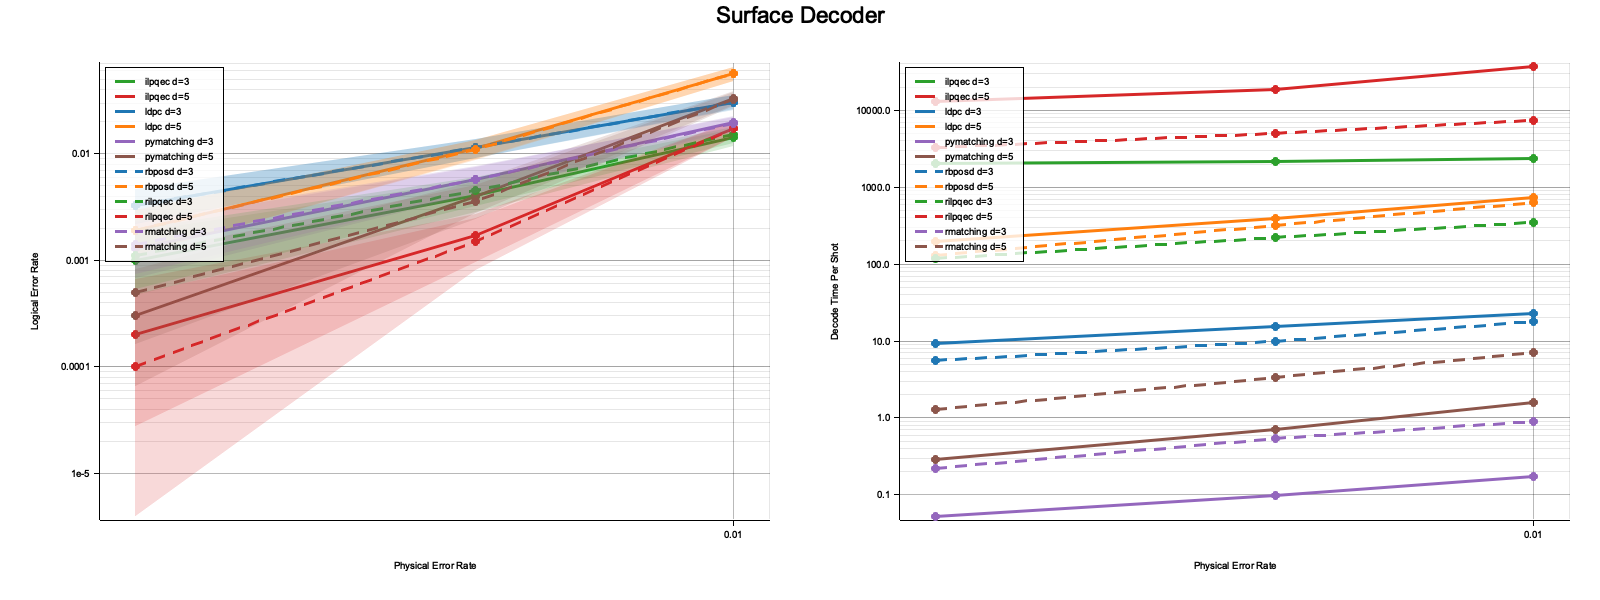
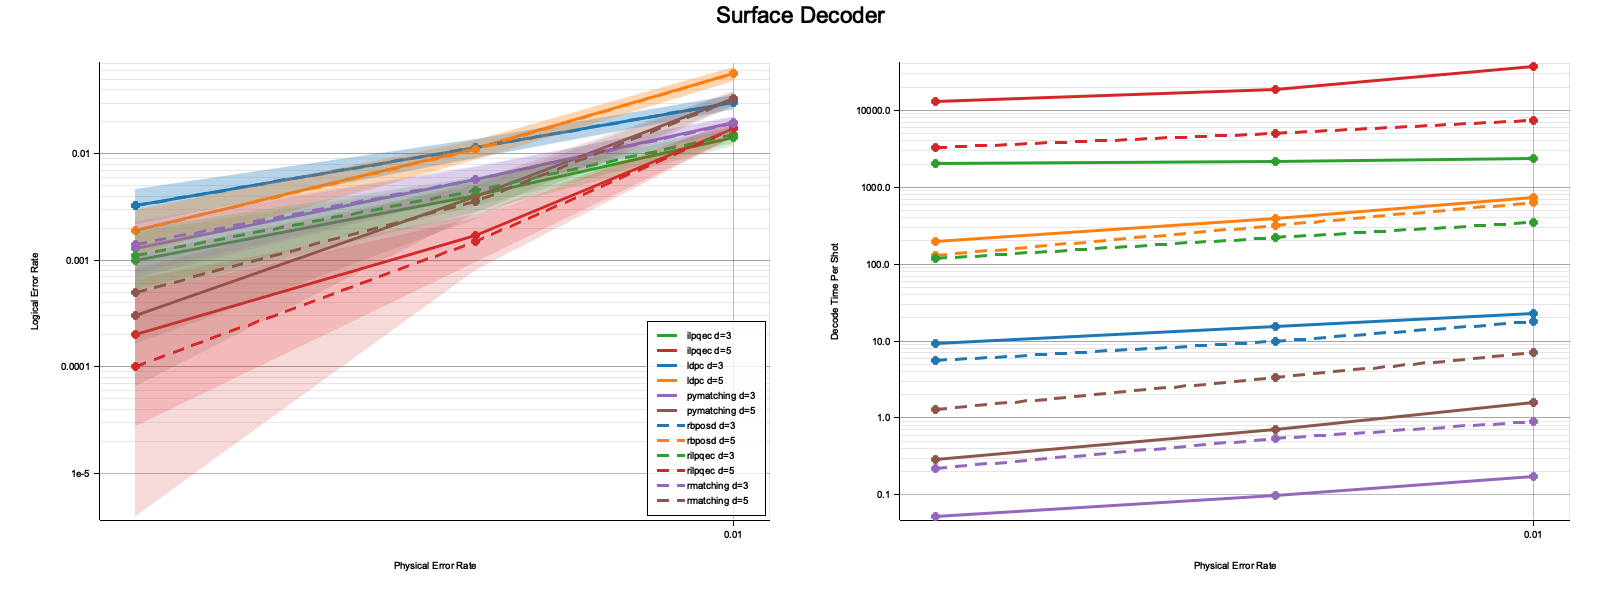
fix: place surface plot legend once

Changed region(s): [[0.0625, 0.12, 0.1562, 0.45], [0.5625, 0.12, 0.6562, 0.45], [0.4062, 0.54, 0.4688, 0.84]]

diff --git a/rsinter/src/bench/plot.rs b/rsinter/src/bench/plot.rs
@@ -470,12 +470,15 @@ where
     };
     let areas = content.split_evenly((1, panels.len()));
 
-    for (area, panel) in areas.into_iter().zip(panels.iter()) {
+    for (index, (area, panel)) in areas.into_iter().zip(panels.iter()).enumerate() {
+        let show_legend = index == 0;
         match panel {
             PreparedPanel::ErrorRate(data) => {
-                render_error_rate_panel_on(area, data, series_styles)?
+                render_error_rate_panel_on(area, data, series_styles, show_legend)?
             }
-            PreparedPanel::Numeric(data) => render_numeric_panel_on(area, data, series_styles)?,
+            PreparedPanel::Numeric(data) => {
+                render_numeric_panel_on(area, data, series_styles, show_legend)?
+            }
         }
     }
 
@@ -486,6 +489,7 @@ fn render_error_rate_panel_on<DB: DrawingBackend>(
     area: DrawingArea<DB, Shift>,
     data: &ErrorRatePanelData,
     series_styles: &BTreeMap<SeriesKey, SeriesStyle>,
+    show_legend: bool,
 ) -> Result<(), String>
 where
     DB::ErrorType: 'static,
@@ -507,7 +511,7 @@ where
                 .y_desc(data.y_label.as_str())
                 .draw()
                 .map_err(|e| e.to_string())?;
-            draw_error_rate_series(&mut chart, &data.groups, series_styles)?;
+            draw_error_rate_series(&mut chart, &data.groups, series_styles, show_legend)?;
         }
         ("linear", "log") => {
             let mut chart = ChartBuilder::on(&area)
@@ -525,7 +529,7 @@ where
                 .y_desc(data.y_label.as_str())
                 .draw()
                 .map_err(|e| e.to_string())?;
-            draw_error_rate_series(&mut chart, &data.groups, series_styles)?;
+            draw_error_rate_series(&mut chart, &data.groups, series_styles, show_legend)?;
         }
         ("log", "linear") => {
             let mut chart = ChartBuilder::on(&area)
@@ -543,7 +547,7 @@ where
                 .y_desc(data.y_label.as_str())
                 .draw()
                 .map_err(|e| e.to_string())?;
-            draw_error_rate_series(&mut chart, &data.groups, series_styles)?;
+            draw_error_rate_series(&mut chart, &data.groups, series_styles, show_legend)?;
         }
         ("linear", "linear") => {
             let mut chart = ChartBuilder::on(&area)
@@ -561,7 +565,7 @@ where
                 .y_desc(data.y_label.as_str())
                 .draw()
                 .map_err(|e| e.to_string())?;
-            draw_error_rate_series(&mut chart, &data.groups, series_styles)?;
+            draw_error_rate_series(&mut chart, &data.groups, series_styles, show_legend)?;
         }
         _ => {
             return Err(format!(
@@ -578,6 +582,7 @@ fn render_numeric_panel_on<DB: DrawingBackend>(
     area: DrawingArea<DB, Shift>,
     data: &NumericPanelData,
     series_styles: &BTreeMap<SeriesKey, SeriesStyle>,
+    show_legend: bool,
 ) -> Result<(), String>
 where
     DB::ErrorType: 'static,
@@ -599,7 +604,7 @@ where
                 .y_desc(data.y_label.as_str())
                 .draw()
                 .map_err(|e| e.to_string())?;
-            draw_numeric_series(&mut chart, &data.groups, series_styles)?;
+            draw_numeric_series(&mut chart, &data.groups, series_styles, show_legend)?;
         }
         ("linear", "log") => {
             let mut chart = ChartBuilder::on(&area)
@@ -617,7 +622,7 @@ where
                 .y_desc(data.y_label.as_str())
                 .draw()
                 .map_err(|e| e.to_string())?;
-            draw_numeric_series(&mut chart, &data.groups, series_styles)?;
+            draw_numeric_series(&mut chart, &data.groups, series_styles, show_legend)?;
         }
         ("log", "linear") => {
             let mut chart = ChartBuilder::on(&area)
@@ -635,7 +640,7 @@ where
                 .y_desc(data.y_label.as_str())
                 .draw()
                 .map_err(|e| e.to_string())?;
-            draw_numeric_series(&mut chart, &data.groups, series_styles)?;
+            draw_numeric_series(&mut chart, &data.groups, series_styles, show_legend)?;
         }
         ("linear", "linear") => {
             let mut chart = ChartBuilder::on(&area)
@@ -653,7 +658,7 @@ where
                 .y_desc(data.y_label.as_str())
                 .draw()
                 .map_err(|e| e.to_string())?;
-            draw_numeric_series(&mut chart, &data.groups, series_styles)?;
+            draw_numeric_series(&mut chart, &data.groups, series_styles, show_legend)?;
         }
         _ => {
             return Err(format!(
@@ -670,6 +675,7 @@ fn draw_error_rate_series<'a, DB, XR, YR>(
     chart: &mut ChartContext<'a, DB, Cartesian2d<XR, YR>>,
     groups: &ErrorRateGroups,
     series_styles: &BTreeMap<SeriesKey, SeriesStyle>,
+    show_legend: bool,
 ) -> Result<(), String>
 where
     DB: DrawingBackend + 'a,
@@ -741,19 +747,14 @@ where
         }
     }
 
-    chart
-        .configure_series_labels()
-        .position(SeriesLabelPosition::UpperLeft)
-        .background_style(WHITE.mix(0.8))
-        .border_style(BLACK)
-        .draw()
-        .map_err(|e| e.to_string())
+    draw_series_legend(chart, show_legend)
 }
 
 fn draw_numeric_series<'a, DB, XR, YR>(
     chart: &mut ChartContext<'a, DB, Cartesian2d<XR, YR>>,
     groups: &NumericGroups,
     series_styles: &BTreeMap<SeriesKey, SeriesStyle>,
+    show_legend: bool,
 ) -> Result<(), String>
 where
     DB: DrawingBackend + 'a,
@@ -780,9 +781,25 @@ where
             .map_err(|e| e.to_string())?;
     }
 
+    draw_series_legend(chart, show_legend)
+}
+
+fn draw_series_legend<'a, DB, XR, YR>(
+    chart: &mut ChartContext<'a, DB, Cartesian2d<XR, YR>>,
+    show_legend: bool,
+) -> Result<(), String>
+where
+    DB: DrawingBackend + 'a,
+    DB::ErrorType: 'static,
+    XR: Ranged<ValueType = f64>,
+    YR: Ranged<ValueType = f64>,
+{
+    if !show_legend {
+        return Ok(());
+    }
     chart
         .configure_series_labels()
-        .position(SeriesLabelPosition::UpperLeft)
+        .position(SeriesLabelPosition::LowerRight)
         .background_style(WHITE.mix(0.8))
         .border_style(BLACK)
         .draw()

diff --git a/rsinter/tests/bench_plot.rs b/rsinter/tests/bench_plot.rs
@@ -169,6 +169,22 @@ label = "Decode Time Per Shot"
     render_benchmark_plot(&spec, &rows, &out).unwrap();
     let svg = std::fs::read_to_string(out).unwrap();
     assert!(svg.contains("<svg"));
+    assert_eq!(
+        svg.matches("\nrmatching d=3\n").count(),
+        1,
+        "multi-panel plots should render a single shared legend; svg was:\n{svg}"
+    );
+    let legend_rects = legend_background_rects(&svg);
+    assert_eq!(
+        legend_rects.len(),
+        1,
+        "multi-panel plots should render a single legend box; svg was:\n{svg}"
+    );
+    let legend_rect = legend_rects[0];
+    assert!(
+        legend_rect.0 > 450.0 && legend_rect.0 + legend_rect.2 < 800.0 && legend_rect.1 > 350.0,
+        "the shared legend should sit in the lower-right of the left panel, got {legend_rect:?}; svg was:\n{svg}"
+    );
 }
 
 #[test]
@@ -1516,6 +1532,22 @@ fn svg_circle_fill_colors(svg: &str) -> std::collections::BTreeSet<String> {
         .collect()
 }
 
+fn legend_background_rects(svg: &str) -> Vec<(f64, f64, f64, f64)> {
+    svg.lines()
+        .filter(|line| line.contains("<rect"))
+        .filter(|line| line.contains("opacity=\"0.8\""))
+        .filter(|line| line.contains("fill=\"#FFFFFF\""))
+        .filter_map(|line| {
+            Some((
+                svg_attribute(line, "x")?.parse().ok()?,
+                svg_attribute(line, "y")?.parse().ok()?,
+                svg_attribute(line, "width")?.parse().ok()?,
+                svg_attribute(line, "height")?.parse().ok()?,
+            ))
+        })
+        .collect()
+}
+
 fn legend_color_for_label(svg: &str, label: &str) -> String {
     let samples = legend_sample_lines(svg, label);
     svg_attribute(samples[0], "stroke")
@@ -1560,7 +1592,21 @@ fn legend_labels(svg: &str) -> Vec<String> {
 fn legend_sample_groups(svg: &str) -> Vec<Vec<&str>> {
     let mut groups = Vec::new();
     let mut current_y = None;
-    for line in svg.lines().filter(|line| is_legend_sample_line(line)) {
+    let lines: Vec<_> = svg.lines().collect();
+    let sample_start = lines
+        .windows(2)
+        .enumerate()
+        .filter(|(_, window)| {
+            window[0].contains("<text") && window[0].contains("text-anchor=\"start\"")
+        })
+        .map(|(index, _)| index + 2)
+        .last()
+        .unwrap_or(0);
+    for line in lines[sample_start..]
+        .iter()
+        .copied()
+        .filter(|line| is_legend_sample_line(line))
+    {
         let y = first_polyline_point(line)
             .unwrap_or_else(|| panic!("legend sample should have points; svg line was:\n{line}"))
             .1;
@@ -1583,14 +1629,7 @@ fn is_legend_sample_line(line: &str) -> bool {
     {
         return false;
     }
-    let Some(points) = svg_attribute(line, "points") else {
-        return false;
-    };
-    let points: Vec<_> = points
-        .split_whitespace()
-        .filter_map(parse_svg_point)
-        .collect();
-    !points.is_empty() && points.iter().all(|(x, _)| (90.0..=160.0).contains(x))
+    svg_attribute(line, "points").is_some()
 }
 
 fn first_polyline_point(line: &str) -> Option<(f64, f64)> {
